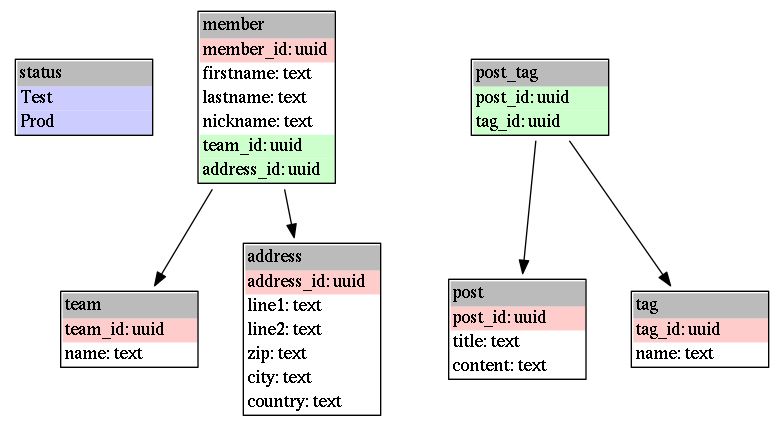
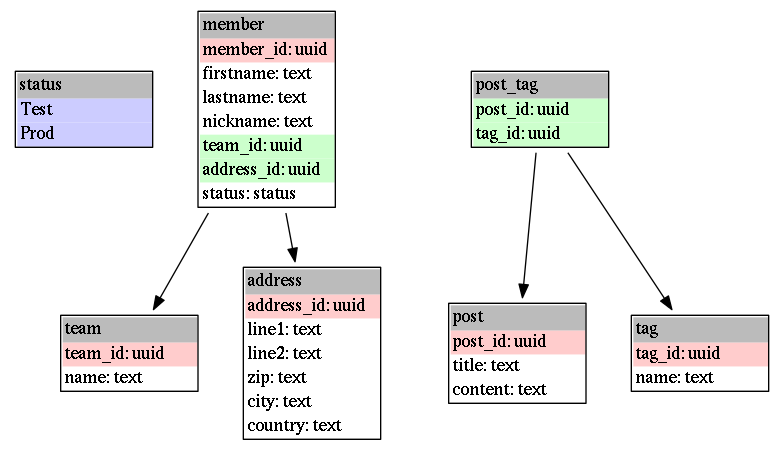
Support default value extraction

diff --git a/README.md b/README.md
@@ -8,6 +8,7 @@ associated information from a lightweight spec.
 `schema.yml`
 
 ```yaml
+
 status:
   - Test
   - Prod
@@ -32,6 +33,7 @@ member:
   nickname: text
   ?team_id:
   address_id:
+  status: status | 'Test'
   __unique: [ firstname, lastname ]
 
 tag:
@@ -42,6 +44,7 @@ post_tag:
     post_id:
     tag_id:
     __pk: [ tag_id, post_id ]
+
 ```
 
     jdbt ./schema.yml > schema.sql
@@ -50,10 +53,11 @@ post_tag:
 `schema.sql`
 
 ```sql
+
 create type status as enum('Test', 'Prod');
 
-create table group (
-    group_id uuid primary key,
+create table team (
+    team_id uuid primary key,
     name text not null
 );
 
@@ -72,14 +76,29 @@ create table post (
     content text
 );
 
-create table user (
-    user_id uuid primary key,
+create table member (
+    member_id uuid primary key,
     firstname text not null,
     lastname text not null,
     nickname text not null,
-    group_id uuid references group(group_id),
-    address_id uuid not null references address(address_id)
+    team_id uuid references team(team_id),
+    address_id uuid not null references address(address_id),
+    status status  default  'Test'::status  not null,
+    unique (firstname, lastname)
 );
+
+create table tag (
+    tag_id uuid primary key,
+    name text not null unique,
+    constraint cst_0 check (name <> 'prolapse')
+);
+
+create table post_tag (
+    post_id uuid not null references post(post_id),
+    tag_id uuid not null references tag(tag_id),
+    primary key (tag_id, post_id)
+);
+
 ```
 
 `schema.png`
